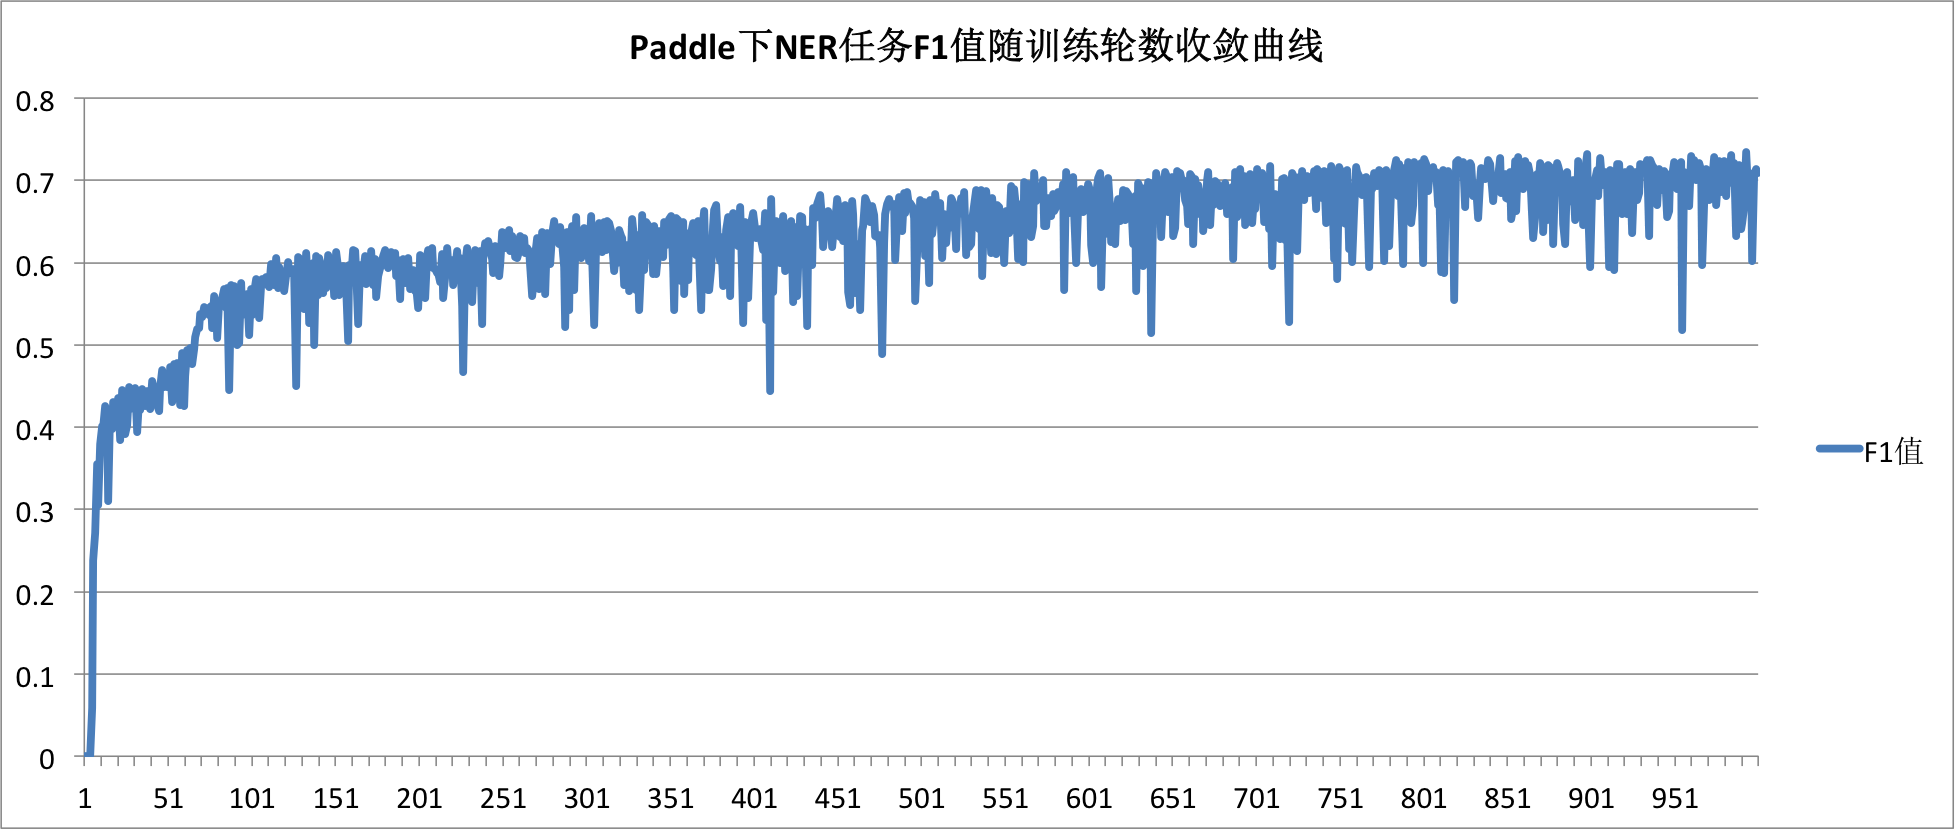
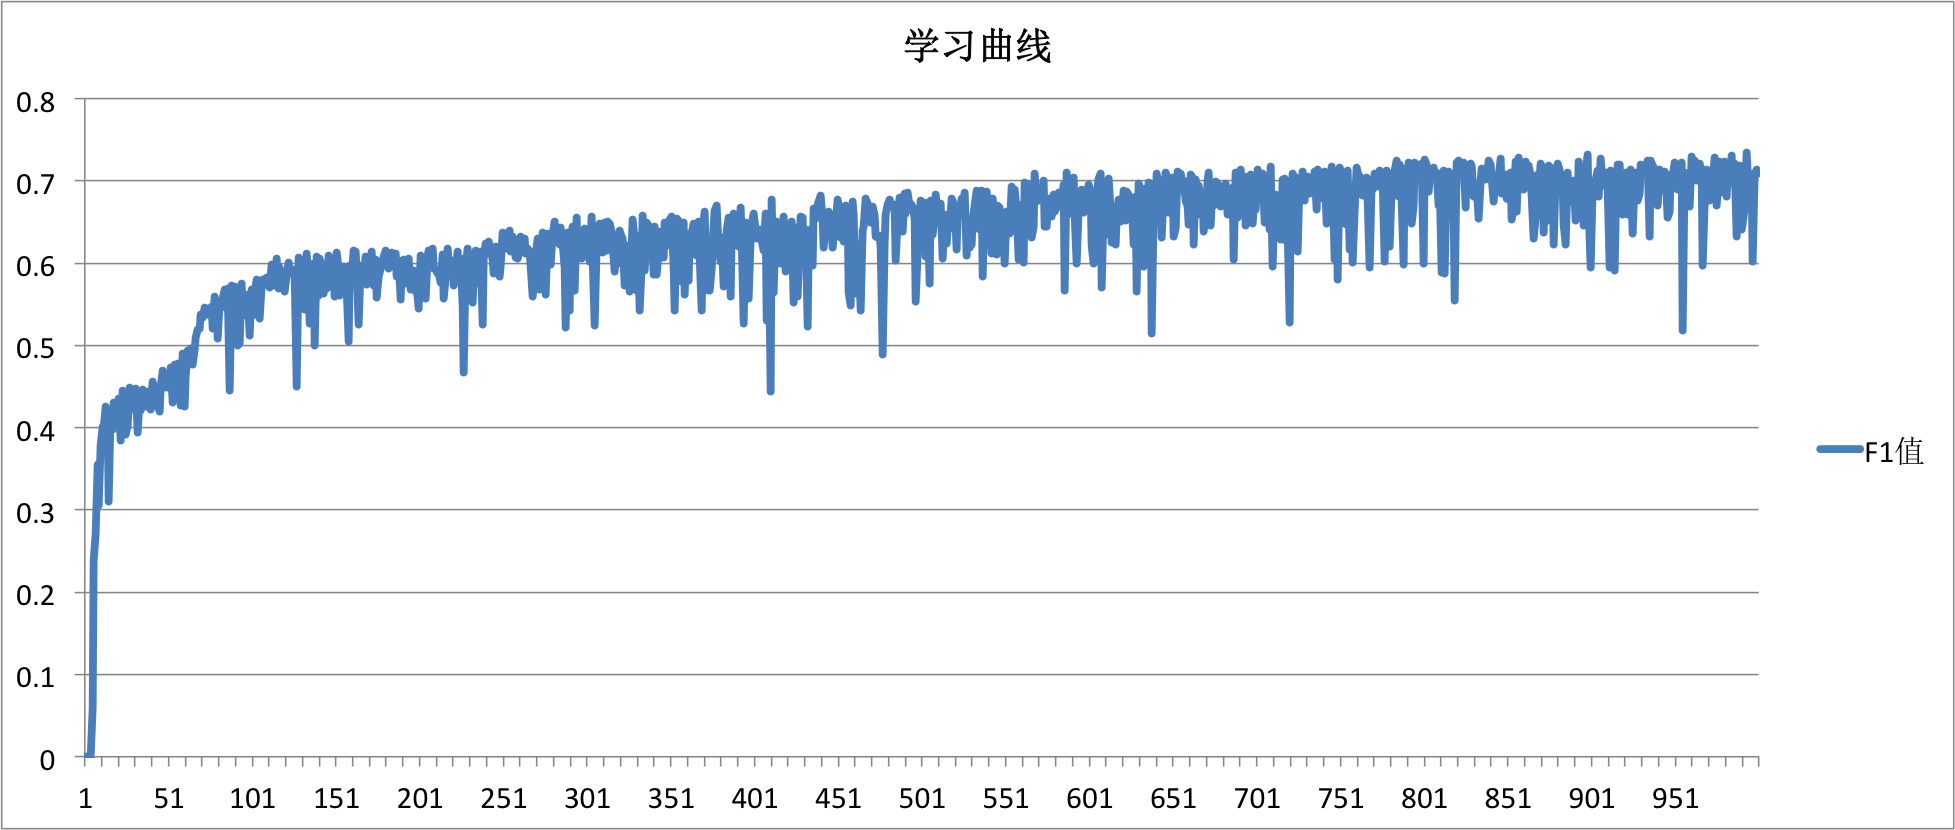
for code review

diff --git a/fluid/sequence_tagging_for_ner/utils_extend.py b/fluid/sequence_tagging_for_ner/utils_extend.py
@@ -1,4 +1,5 @@
 import numpy as np
+
 import paddle.fluid as fluid
 
 

diff --git a/fluid/sequence_tagging_for_ner/README.md b/fluid/sequence_tagging_for_ner/README.md
@@ -10,7 +10,7 @@
 ├── README.md            # 文档
 ├── train.py             # 训练脚本
 ├── infer.py             # 预测脚本
-└── utils.py             # 定义通用的函数, 从外部获取
+├── utils.py             # 定义通用的函数, 从外部获取
 └── utils_extend.py      # 对utils.py的拓展
 ```
 
@@ -22,13 +22,13 @@
 
 ## 数据获取
 
-参照https://github.com/PaddlePaddle/models/blob/develop/sequence_tagging_for_ner/README.md中的数据获取方式，将获取的data目录复制到本目录下。
+参照https://github.com/PaddlePaddle/models/blob/develop/sequence_tagging_for_ner/README.md 中的数据获取方式，将获取的data目录复制到本目录下。
 
 ## 通用脚本获取
 
-本例需要使用https://github.com/PaddlePaddle/models/blob/develop/sequence_tagging_for_ner/reader.py以及https://github.com/PaddlePaddle/models/blob/develop/sequence_tagging_for_ner/utils.py，请将这两个文件复制到本目录下。
+本例需要使用https://github.com/PaddlePaddle/models/blob/develop/sequence_tagging_for_ner/reader.py 以及 https://github.com/PaddlePaddle/models/blob/develop/sequence_tagging_for_ner/utils.py ，请将这两个文件复制到本目录下。
 
-### 训练
+## 训练
 
 1. 运行 `sh data/download.sh`
 2. 修改 `train.py` 的 `main` 函数，指定数据路径
@@ -43,7 +43,7 @@
         model_save_dir="models",
         num_passes=1000,
         use_gpu=False,
-        parallel=True)
+        parallel=False)
     ```
 
 3. 运行命令 `python train.py` ，**需要注意：直接运行使用的是示例数据，请替换真实的标记数据。**
@@ -67,7 +67,7 @@
     [TrainSet] pass_id:127 pass_precision:[0.46023396] pass_recall:[0.43197003] pass_f1_score:[0.44565433]
     [TestSet] pass_id:127 pass_precision:[0.4708409] pass_recall:[0.47971722] pass_f1_score:[0.4752376]
     ```
-### 预测
+## 预测
 1. 修改 [infer.py](./infer.py) 的 `infer` 函数，指定：需要测试的模型的路径、测试数据、字典文件，预测标记文件的路径，默认参数如下：
 
     ```python
@@ -116,5 +116,5 @@
 
 <p align="center">
 <img src="imgs/convergence_curve.png" width="80%" align="center"/><br/>
-图1. Paddle下实验结果示例, 横轴表示训练轮数，纵轴表示F1值
+图1. 学习曲线, 横轴表示训练轮数，纵轴表示F1值
 </p>
